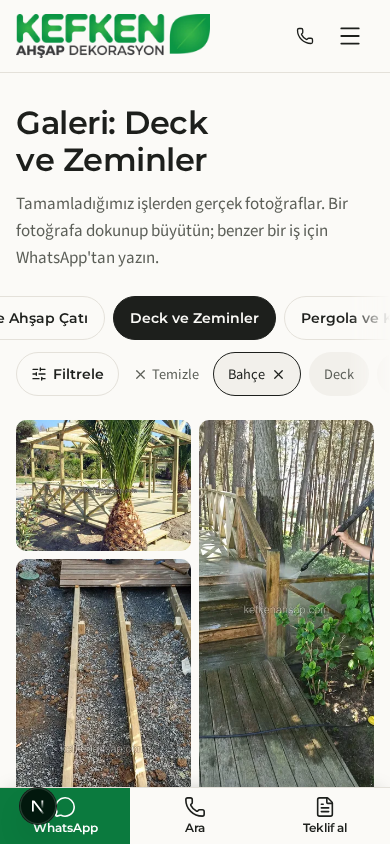
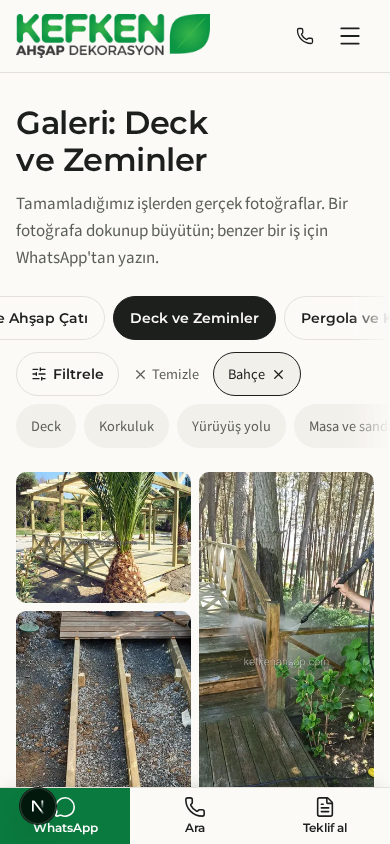
fix(gallery): review fixes — phone DOM order, stacked phone row, arrow-safe scroll padding, tag-aware service links (#178)

diff --git a/src/components/gallery/FilterControls.tsx b/src/components/gallery/FilterControls.tsx
@@ -12,9 +12,11 @@ import { useEffect, useRef, useState, type ReactNode } from 'react'
 export function FilterRail({
   className = '',
   railClassName = '',
+  backLabel,
+  nextLabel,
   children,
   ...rest
-}: { className?: string; railClassName?: string; children: ReactNode } & React.HTMLAttributes<HTMLDivElement>) {
+}: { className?: string; railClassName?: string; backLabel: string; nextLabel: string; children: ReactNode } & React.HTMLAttributes<HTMLDivElement>) {
   const ref = useRef<HTMLDivElement>(null)
   const [more, setMore] = useState({ back: false, next: false })
   useEffect(() => {
@@ -29,7 +31,9 @@ export function FilterRail({
     // RTL scrollLeft runs negative from 0, so the magnitude is the distance from the start in both directions.
     const sync = () => {
       const x = Math.abs(box.scrollLeft)
-      setMore({ back: x > 1, next: x + box.clientWidth < box.scrollWidth - 1 })
+      const back = x > 1
+      const next = x + box.clientWidth < box.scrollWidth - 1
+      setMore((m) => (m.back === back && m.next === next ? m : { back, next }))
     }
     const ro = new ResizeObserver(sync)
     ro.observe(box)
@@ -40,7 +44,8 @@ export function FilterRail({
     const box = ref.current
     if (!box) return
     const rtl = getComputedStyle(box).direction === 'rtl' ? -1 : 1
-    box.scrollBy({ left: dir * rtl * box.clientWidth * 0.8, behavior: 'smooth' })
+    const still = window.matchMedia('(prefers-reduced-motion: reduce)').matches
+    box.scrollBy({ left: dir * rtl * box.clientWidth * 0.8, behavior: still ? 'auto' : 'smooth' })
   }
   const arrow =
     'absolute top-1/2 z-10 hidden size-11 -translate-y-1/2 items-center justify-center rounded-full border border-line bg-paper text-ink shadow-[0_2px_8px_rgb(29_31_28/0.12)] transition-colors hover:border-ink/40 pointer-fine:flex'
@@ -49,15 +54,15 @@ export function FilterRail({
       <div ref={ref} {...rest} className={`rail ${railClassName}`}>
         {children}
       </div>
-      {/* Mouse-only shortcuts: keyboard and screen readers already reach every chip in order. */}
+      {/* Mouse shortcuts, out of the tab order: the keyboard already reaches every chip in order. */}
       {more.back && (
-        <button type="button" tabIndex={-1} aria-hidden onClick={() => page(-1)} className={`${arrow} start-0`}>
-          <ChevronLeft size={18} strokeWidth={2} className="rtl:rotate-180" />
+        <button type="button" tabIndex={-1} aria-label={backLabel} onClick={() => page(-1)} className={`${arrow} start-0`}>
+          <ChevronLeft aria-hidden size={18} strokeWidth={2} className="rtl:rotate-180" />
         </button>
       )}
       {more.next && (
-        <button type="button" tabIndex={-1} aria-hidden onClick={() => page(1)} className={`${arrow} end-0`}>
-          <ChevronRight size={18} strokeWidth={2} className="rtl:rotate-180" />
+        <button type="button" tabIndex={-1} aria-label={nextLabel} onClick={() => page(1)} className={`${arrow} end-0`}>
+          <ChevronRight aria-hidden size={18} strokeWidth={2} className="rtl:rotate-180" />
         </button>
       )}
     </div>
@@ -75,6 +80,8 @@ export function FilterMore({
   defaultOpen,
   rowClassName,
   lead,
+  phone,
+  activeChip,
   after,
   children,
 }: {
@@ -84,6 +91,10 @@ export function FilterMore({
   defaultOpen: boolean
   rowClassName: string
   lead: ReactNode
+  /** Phone-only controls next to the toggle; when any are given, the type rail drops to its own full-width line. */
+  phone?: ReactNode
+  /** Phone-only chip for an active tag that sits in the (closed) panel; hidden while the panel shows it. */
+  activeChip?: ReactNode
   after?: ReactNode
   children: ReactNode
 }) {
@@ -93,35 +104,45 @@ export function FilterMore({
   const [auto, setAuto] = useState(defaultOpen)
   const btn =
     'js-only inline-flex min-h-11 shrink-0 items-center gap-1.5 rounded-full border border-line bg-paper px-3.5 font-[family-name:var(--font-display)] text-sm font-semibold whitespace-nowrap text-ink transition-colors hover:border-ink/40 aria-expanded:border-ink aria-expanded:bg-mist'
-  const toggle = (
-    <>
+  const phoneOpen = open && !auto
+  const stacked = Boolean(phone || activeChip)
+  const phoneToggle = (
       <button
         type="button"
-        aria-expanded={open && !auto}
+        aria-expanded={phoneOpen}
         aria-controls={id}
         onClick={() => (setAuto(false), setOpen(auto || !open))}
         data-umami-event="filter_more"
-        className={`${btn} max-md:order-first md:hidden`}
+        data-umami-event-action={open && !auto ? 'close' : 'open'}
+        className={btn}
       >
         <SlidersHorizontal aria-hidden size={16} strokeWidth={2} />
         {mobileLabel}
       </button>
+  )
+  const toggle = (
       <button
         type="button"
         aria-expanded={open}
         aria-controls={id}
         onClick={() => (setAuto(false), setOpen(!open))}
         data-umami-event="filter_more"
+        data-umami-event-action={open ? 'close' : 'open'}
         className={`${btn} max-md:hidden`}
       >
         {label}
         <ChevronDown aria-hidden size={16} strokeWidth={2} className={`transition-transform ${open ? 'rotate-180' : ''}`} />
       </button>
-    </>
   )
   return (
     <>
-      <div className={rowClassName}>
+      {/* Phone controls come first in the DOM too, so focus and reading order match what is seen. */}
+      <div className={`${rowClassName} max-md:flex-wrap`}>
+        <div className={`flex items-center gap-2 md:hidden ${stacked ? 'basis-full' : ''}`}>
+          {phoneToggle}
+          {phone}
+          {!phoneOpen && activeChip}
+        </div>
         {lead}
         {toggle}
         {after}

diff --git a/src/components/gallery/GalleryFilters.tsx b/src/components/gallery/GalleryFilters.tsx
@@ -6,7 +6,7 @@ import type { Locale } from '@/i18n/routing'
 
 import { FilterMore, FilterRail } from './FilterControls'
 
-type Option = { slug?: string | null; name: string }
+type Option = { id?: number; slug?: string | null; name: string }
 
 const chip =
   'inline-flex min-h-11 shrink-0 items-center rounded-full border px-4 font-[family-name:var(--font-display)] text-sm font-semibold whitespace-nowrap transition-colors'
@@ -29,6 +29,7 @@ export async function GalleryFilters({
   types = [],
   moreTypes = [],
   tags,
+  tagCategories,
   active: activeProp,
   className = '',
 }: {
@@ -37,6 +38,8 @@ export async function GalleryFilters({
   types?: Option[]
   moreTypes?: Option[]
   tags: Option[]
+  /** Services the active tag has photos in; the other service chips drop the tag. */
+  tagCategories?: number[]
   active?: { category?: string; tag?: string }
   className?: string
 }) {
@@ -58,7 +61,7 @@ export async function GalleryFilters({
         o.slug ? (
           <a
             key={o.slug}
-            href={href({ kategori: o.slug, etiket: active.tag })}
+            href={href({ kategori: o.slug, etiket: tagCategories && o.id !== undefined && !tagCategories.includes(o.id) ? undefined : active.tag })}
             aria-current={active.category === o.slug ? 'page' : undefined}
             data-umami-event="filter_use"
             data-umami-event-filter="kategori"
@@ -122,21 +125,28 @@ export async function GalleryFilters({
       <p id="filter-types" className={label}>
         {t('typeFilter')}
       </p>
-      <FilterRail role="group" aria-labelledby="filter-types" className="-ms-1.5 -me-4 flex-1 md:me-0 md:flex-initial" railClassName="ps-1.5">
+      <FilterRail backLabel={t('scrollBack')} nextLabel={t('scrollNext')} role="group" aria-labelledby="filter-types" className="-ms-1.5 -me-4 flex-1 max-md:min-w-24 md:me-0 md:flex-initial" railClassName="ps-1.5">
         {tagLinks(types, 'tur')}
       </FilterRail>
     </>
   )
-  const clear = (active.category || active.tag) && (
-    <a href={base} className="inline-flex min-h-11 shrink-0 items-center gap-1 px-1.5 text-[0.9rem] text-ink-soft underline-offset-4 hover:text-ink hover:underline max-md:order-first">
+  const clearLink = (only: string) => (
+    <a
+      href={base}
+      data-umami-event="filter_clear"
+      className={`inline-flex min-h-11 shrink-0 items-center gap-1 px-1.5 text-[0.9rem] text-ink-soft underline-offset-4 hover:text-ink hover:underline ${only}`}
+    >
       <X aria-hidden size={15} strokeWidth={2} />
       {t('clearAll')}
     </a>
   )
+  // Desktop clears any filter here; on phones the service rail's "Tümü" already does that, so only a tag earns it.
+  const clear = (active.category || active.tag) && clearLink('max-md:hidden')
+  const phoneClear = active.tag && clearLink('md:hidden')
   // Phones keep the disclosure closed, so an active tag from it shows in the row as its own clearing chip.
   const hiddenActive = tags.find((o) => o.slug === active.tag)
   const activeChip = hiddenActive && (
-    <a href={href({ kategori: active.category })} aria-current="page" className={`${tagOn} max-md:order-first md:hidden`}>
+    <a href={href({ kategori: active.category })} aria-current="page" className={`${tagOn} md:hidden`}>
       {hiddenActive.name}
       <X aria-hidden size={15} strokeWidth={2} />
       <span className="sr-only">{t('clearTag')}</span>
@@ -149,7 +159,7 @@ export async function GalleryFilters({
         <p id="filter-services" className={label}>
           {t('serviceFilter')}
         </p>
-        <FilterRail role="group" aria-labelledby="filter-services" className="-mx-4 md:-ms-1.5 md:me-0 md:flex-1" railClassName="ps-4 md:ps-1.5">
+        <FilterRail backLabel={t('scrollBack')} nextLabel={t('scrollNext')} role="group" aria-labelledby="filter-services" className="-mx-4 md:-ms-1.5 md:me-0 md:flex-1" railClassName="ps-4 md:ps-1.5">
           {serviceChips}
         </FilterRail>
       </div>
@@ -161,12 +171,9 @@ export async function GalleryFilters({
           defaultOpen={Boolean(hiddenActive)}
           rowClassName={row}
           lead={typeRow}
-          after={
-            <>
-              {clear}
-              {activeChip}
-            </>
-          }
+          phone={phoneClear || undefined}
+          activeChip={activeChip}
+          after={clear}
         >
           {section('filter-more-types', t('moreTypes'), moreTypes, 'tur')}
           {section('filter-tags', t('tagFilter'), tags, 'etiket')}
@@ -174,6 +181,7 @@ export async function GalleryFilters({
       ) : (
         (typeRow || clear) && (
           <div className={row}>
+            {phoneClear}
             {typeRow}
             {clear}
           </div>

diff --git a/src/lib/data/gallery.ts b/src/lib/data/gallery.ts
@@ -5,7 +5,7 @@ import type { Locale } from '@/i18n/routing'
 import { categoryRank, diversify } from '@/lib/gallery/curate'
 import type { GalleryItem } from '@/lib/gallery/item'
 import { encodeCursor, galleryWhere, PAGE_SIZE, START_CURSOR_ID, type GalleryQuery } from '@/lib/gallery/query'
-import { galleryTagRows } from '@/lib/gallery/tag-rows'
+import { galleryTagRows, tagCategories } from '@/lib/gallery/tag-rows'
 import type { Category, Media, Project, Tag } from '@/payload-types'
 
 import { markFallbackAlt, type WithAltLang } from './media-alt'
@@ -164,7 +164,10 @@ export const getGalleryTags = (locale: Locale) =>
 
 /** The gallery's chip rows for the selected service (if any): see galleryTagRows. */
 export async function getGalleryTagRows(tags: Awaited<ReturnType<typeof getGalleryTags>>, active?: string, category?: number) {
-  return galleryTagRows(tags, tags.length ? await getPhotoTags() : [], { active, category })
+  const photos = tags.length ? await getPhotoTags() : []
+  const tag = active ? tags.find((x) => x.slug === active) : undefined
+  // Services the active tag has photos in: the other service chips drop the tag instead of leading to an empty page.
+  return { ...galleryTagRows(tags, photos, { active, category }), tagCategories: tag ? tagCategories(photos, tag.id) : undefined }
 }
 
 // Each approved gallery photo's service and tag ids (photos without a tag left out), for the chips' per-service counts.

diff --git a/tests/e2e/gallery.e2e.spec.ts b/tests/e2e/gallery.e2e.spec.ts
@@ -110,9 +110,14 @@ test.describe('gallery', () => {
     await page.goto('/tr/galeri')
     const first = await page.locator('[data-gallery-item]:visible').evaluateAll((a) => a.map((x) => x.getAttribute('href')!))
     expect(first).toHaveLength(PAGE_SIZE)
+    // The loop guard scales with the data: the lightbox counter gives the total.
+    await page.locator('[data-gallery-item]:visible').first().click()
+    const counter = await page.getByRole('dialog').getByText(/^1 \/ \d+$/).textContent()
+    const total = Number(counter!.split('/')[1])
+    await page.keyboard.press('Escape')
     const seen = new Set(first)
     let cursor: string | null = encodeCursor(START_CURSOR_ID)
-    for (let guard = 0; cursor && guard < 60; guard++) {
+    for (let guard = 0; cursor && guard <= Math.ceil(total / PAGE_SIZE); guard++) {
       const body = (await (await request.get(`/tr/galeri/feed?cursor=${cursor}`)).json()) as { items: { href: string }[]; nextCursor: string | null }
       for (const i of body.items) {
         expect(seen.has(i.href), i.href).toBe(false)

diff --git a/src/app/(frontend)/[locale]/galeri/page.tsx b/src/app/(frontend)/[locale]/galeri/page.tsx
@@ -55,7 +55,7 @@ export default async function GalleryPage({ params, searchParams }: Props) {
       <Container className="pt-8 md:pt-12">
         <h1 className="text-[clamp(2rem,4vw,3rem)]">{category ? `${t('title')}: ${category.name}` : t('title')}</h1>
         <p className="mt-3 max-w-[60ch] text-ink-soft">{t('intro')}</p>
-        <GalleryFilters locale={locale} categories={categories} types={rows.types} moreTypes={rows.moreTypes} tags={rows.others} active={{ category: q.category, tag: q.tag }} className="mt-6 mb-6 md:mb-8" />
+        <GalleryFilters locale={locale} categories={categories} types={rows.types} moreTypes={rows.moreTypes} tags={rows.others} tagCategories={rows.tagCategories} active={{ category: q.category, tag: q.tag }} className="mt-6 mb-6 md:mb-8" />
         {page.items.length ? (
           <GalleryGrid key={JSON.stringify(filter)} initial={page.items} total={page.total} nextCursor={page.nextCursor} feedUrl={feedUrl} moreHref={moreHref} priority />
         ) : (

diff --git a/src/lib/gallery/tag-rows.test.ts b/src/lib/gallery/tag-rows.test.ts
@@ -1,6 +1,6 @@
 import { describe, expect, it } from 'vitest'
 
-import { galleryTagRows } from './tag-rows'
+import { galleryTagRows, tagCategories } from './tag-rows'
 
 const tag = (id: number, slug: string, axis: string) => ({ id, slug, name: slug, axis })
 const tags = [
@@ -69,5 +69,13 @@ describe('galleryTagRows', () => {
   it('with a service selected, still keeps the active tag so it can be cleared', () => {
     const rows = galleryTagRows(tags, photos(4, 9, 8), { category: 7, active: 'bahce' })
     expect(slugs(rows.others)).toEqual(['bahce'])
+  })
+})
+
+describe('tagCategories', () => {
+  it('lists the services that have at least one approved photo with the tag, each once', () => {
+    const all = [...photos([4, 1], 2, 7), ...photos(1, 3, 8), ...photos(4, 1, 9), ...photos(4, 1, null)]
+    expect(tagCategories(all, 4).sort()).toEqual([7, 9])
+    expect(tagCategories(all, 99)).toEqual([])
   })
 })

diff --git a/src/app/(frontend)/[locale]/styles.css b/src/app/(frontend)/[locale]/styles.css
@@ -90,7 +90,8 @@
   mask-image: linear-gradient(to right, #000 calc(100% - 2.5rem), transparent);
   &:dir(rtl) { mask-image: linear-gradient(to left, #000 calc(100% - 2.5rem), transparent); }
   & > * { scroll-snap-align: start; }
-  @media (pointer: fine) { scrollbar-width: thin; scrollbar-color: var(--color-line) transparent; }
+  /* Mouse: the previous/next arrows sit over the ends, so scrolled-to and focused chips keep clear of them. */
+  @media (pointer: fine) { scroll-padding-inline: 3rem; }
 }
 
 /* Arabic letters join: any tracking (tracking-tight/-wide) breaks the joins, and there is no uppercase.

diff --git a/src/lib/gallery/tag-rows.ts b/src/lib/gallery/tag-rows.ts
@@ -34,3 +34,8 @@ export function galleryTagRows<T extends { id: number; slug?: string | null; axi
     others: shown.filter((t) => t.axis !== 'type'),
   }
 }
+
+/** The services (category ids) with an approved photo carrying `tagId`: a service chip keeps the tag only into these. */
+export function tagCategories(photos: PhotoTags[], tagId: number): number[] {
+  return [...new Set(photos.flatMap((p) => (p.category !== null && p.tags.includes(tagId) ? [p.category] : [])))]
+}
